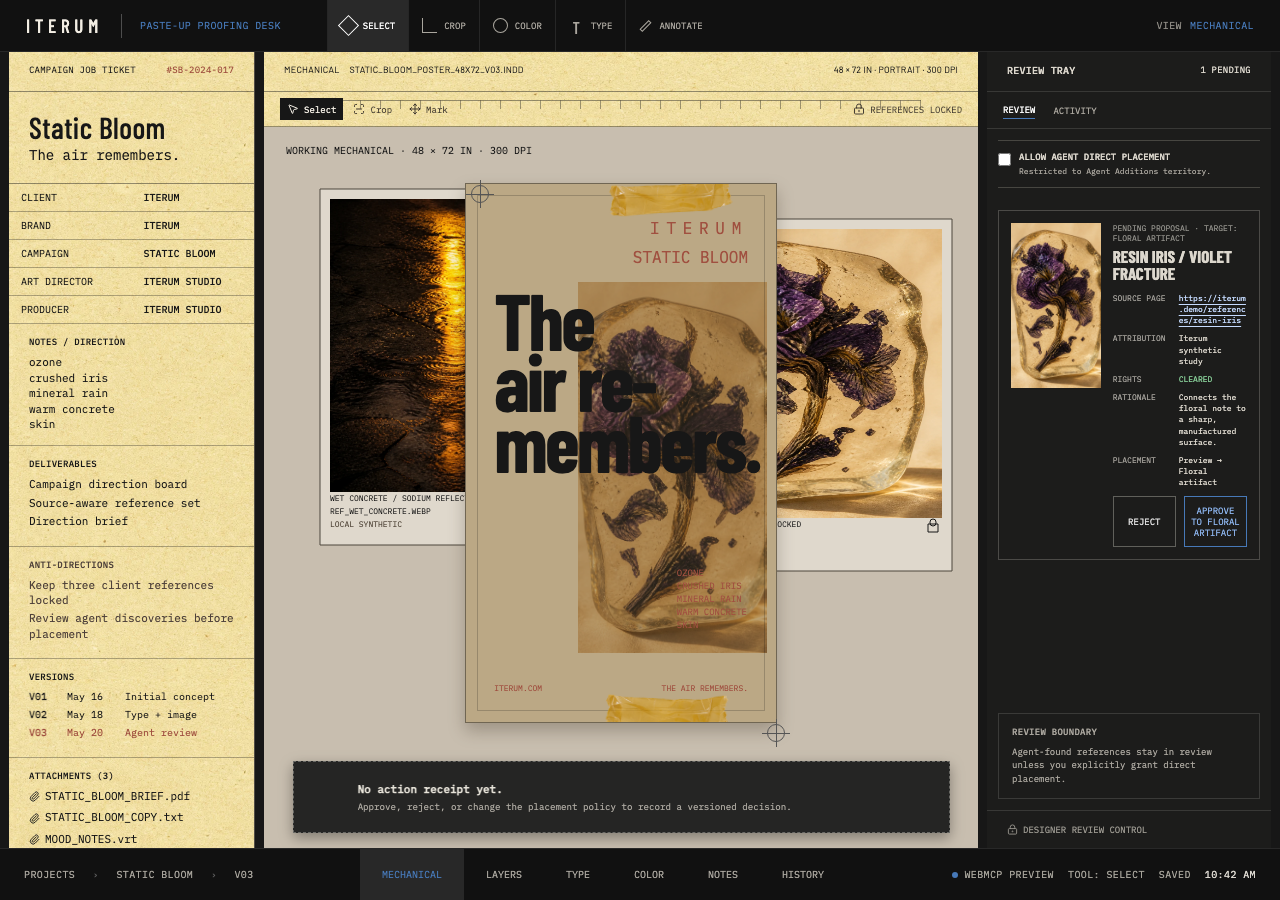
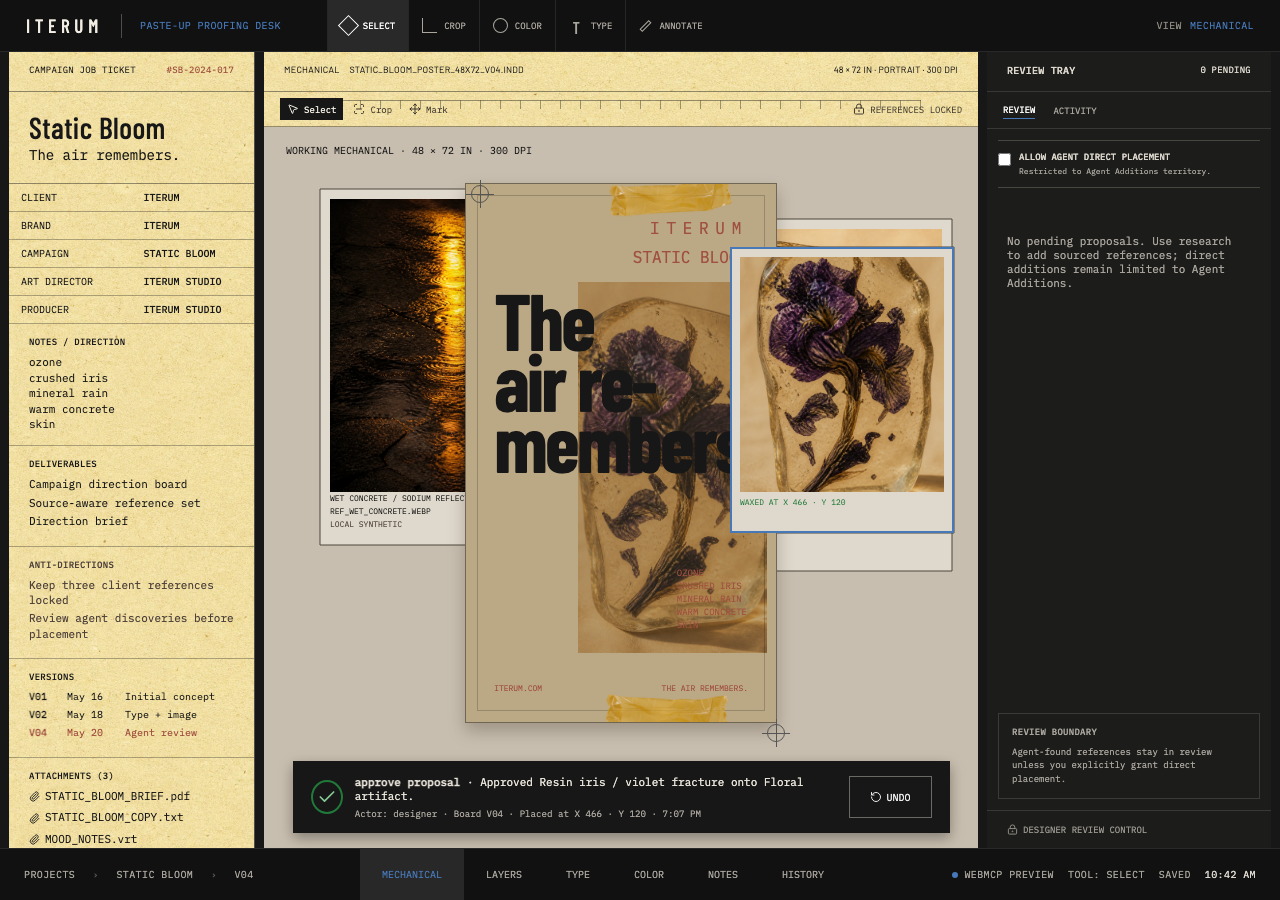
Capture Iterum approval outcome

diff --git a/task-7-report.md b/task-7-report.md
@@ -33,13 +33,14 @@
 
 - `npm run typecheck` — pass.
 - `npm test` — pass, 26 tests.
-- `npm run test:e2e` — pass, 4 tests.
+- `npm run test:e2e` — pass, 5 tests.
 - `npm run build` — pass.
 
 ## Commit
 
 - `d3395b9d472aa965c3510d5ae417f23dba3b76c7` — `Finish Iterum browser proof`.
 - `eea495c` — `Fix Iterum browser review findings`; post-fix typecheck, 26 unit tests, 4 E2E tests, and build passed. The three evidence PNGs were then recaptured from this production build at the same required viewports and manually validated.
+- `1ed3571` — `Show approved proposal on mechanical`; typecheck, 26 unit tests, 5 E2E tests, and build passed. Final evidence was recaptured from this production build after approval, showing the in-bounds reference, matching coordinate receipt, and usable Undo on desktop and phone.
 
 ## Concerns
 
